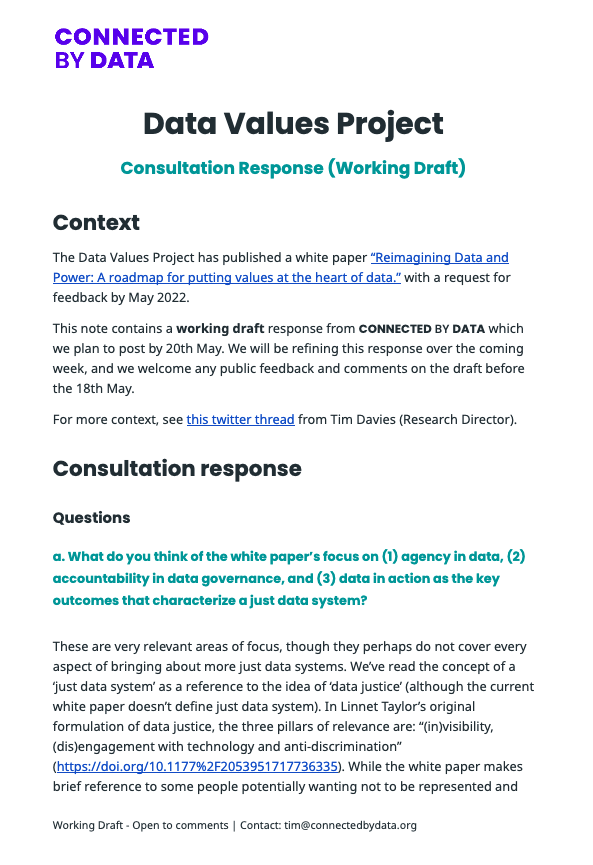
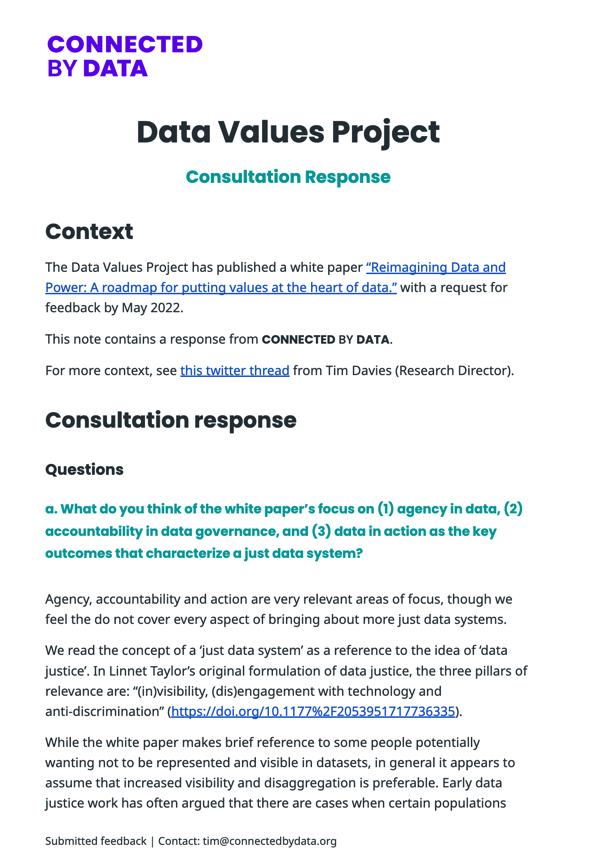
Updating Data Values consultation resource to reflect consultation closing date having passed :

diff --git a/_resources/reimagining-data-and-power-consultation-response.md b/_resources/reimagining-data-and-power-consultation-response.md
@@ -15,4 +15,4 @@ The paper explores issues of individual and collective data governance, and plac
 
 The Data Values Project have asked for feedback on the paper as part of a broad consultation.
 
-This working draft contains a response from Connected by data to the white paper and consultation call. 
+This resource contains a response from Connected by data to the white paper and consultation call. 
